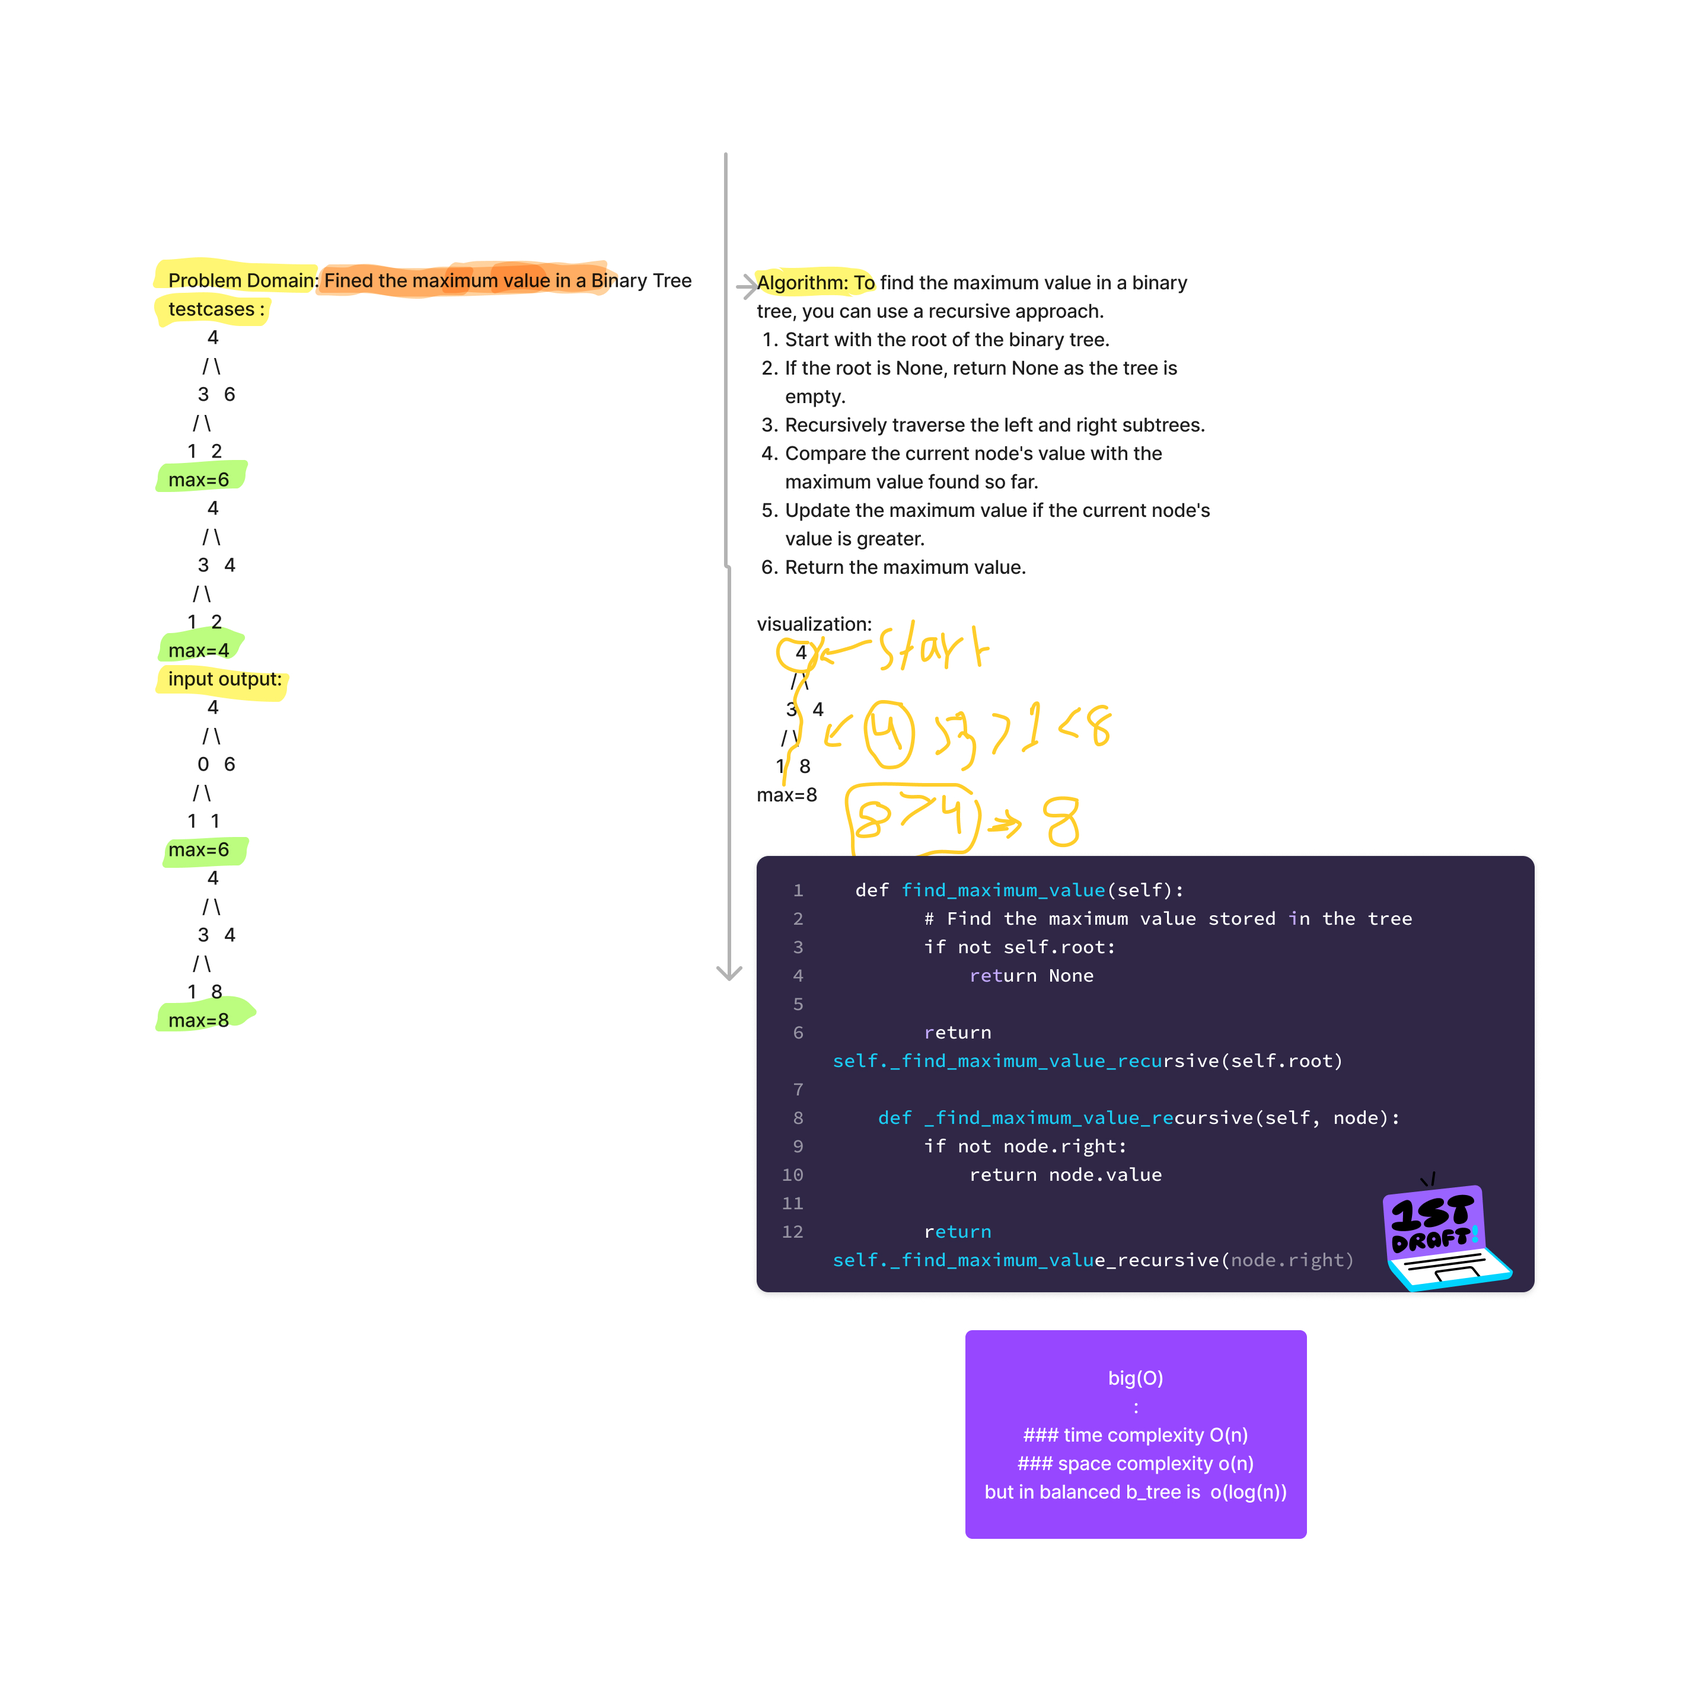
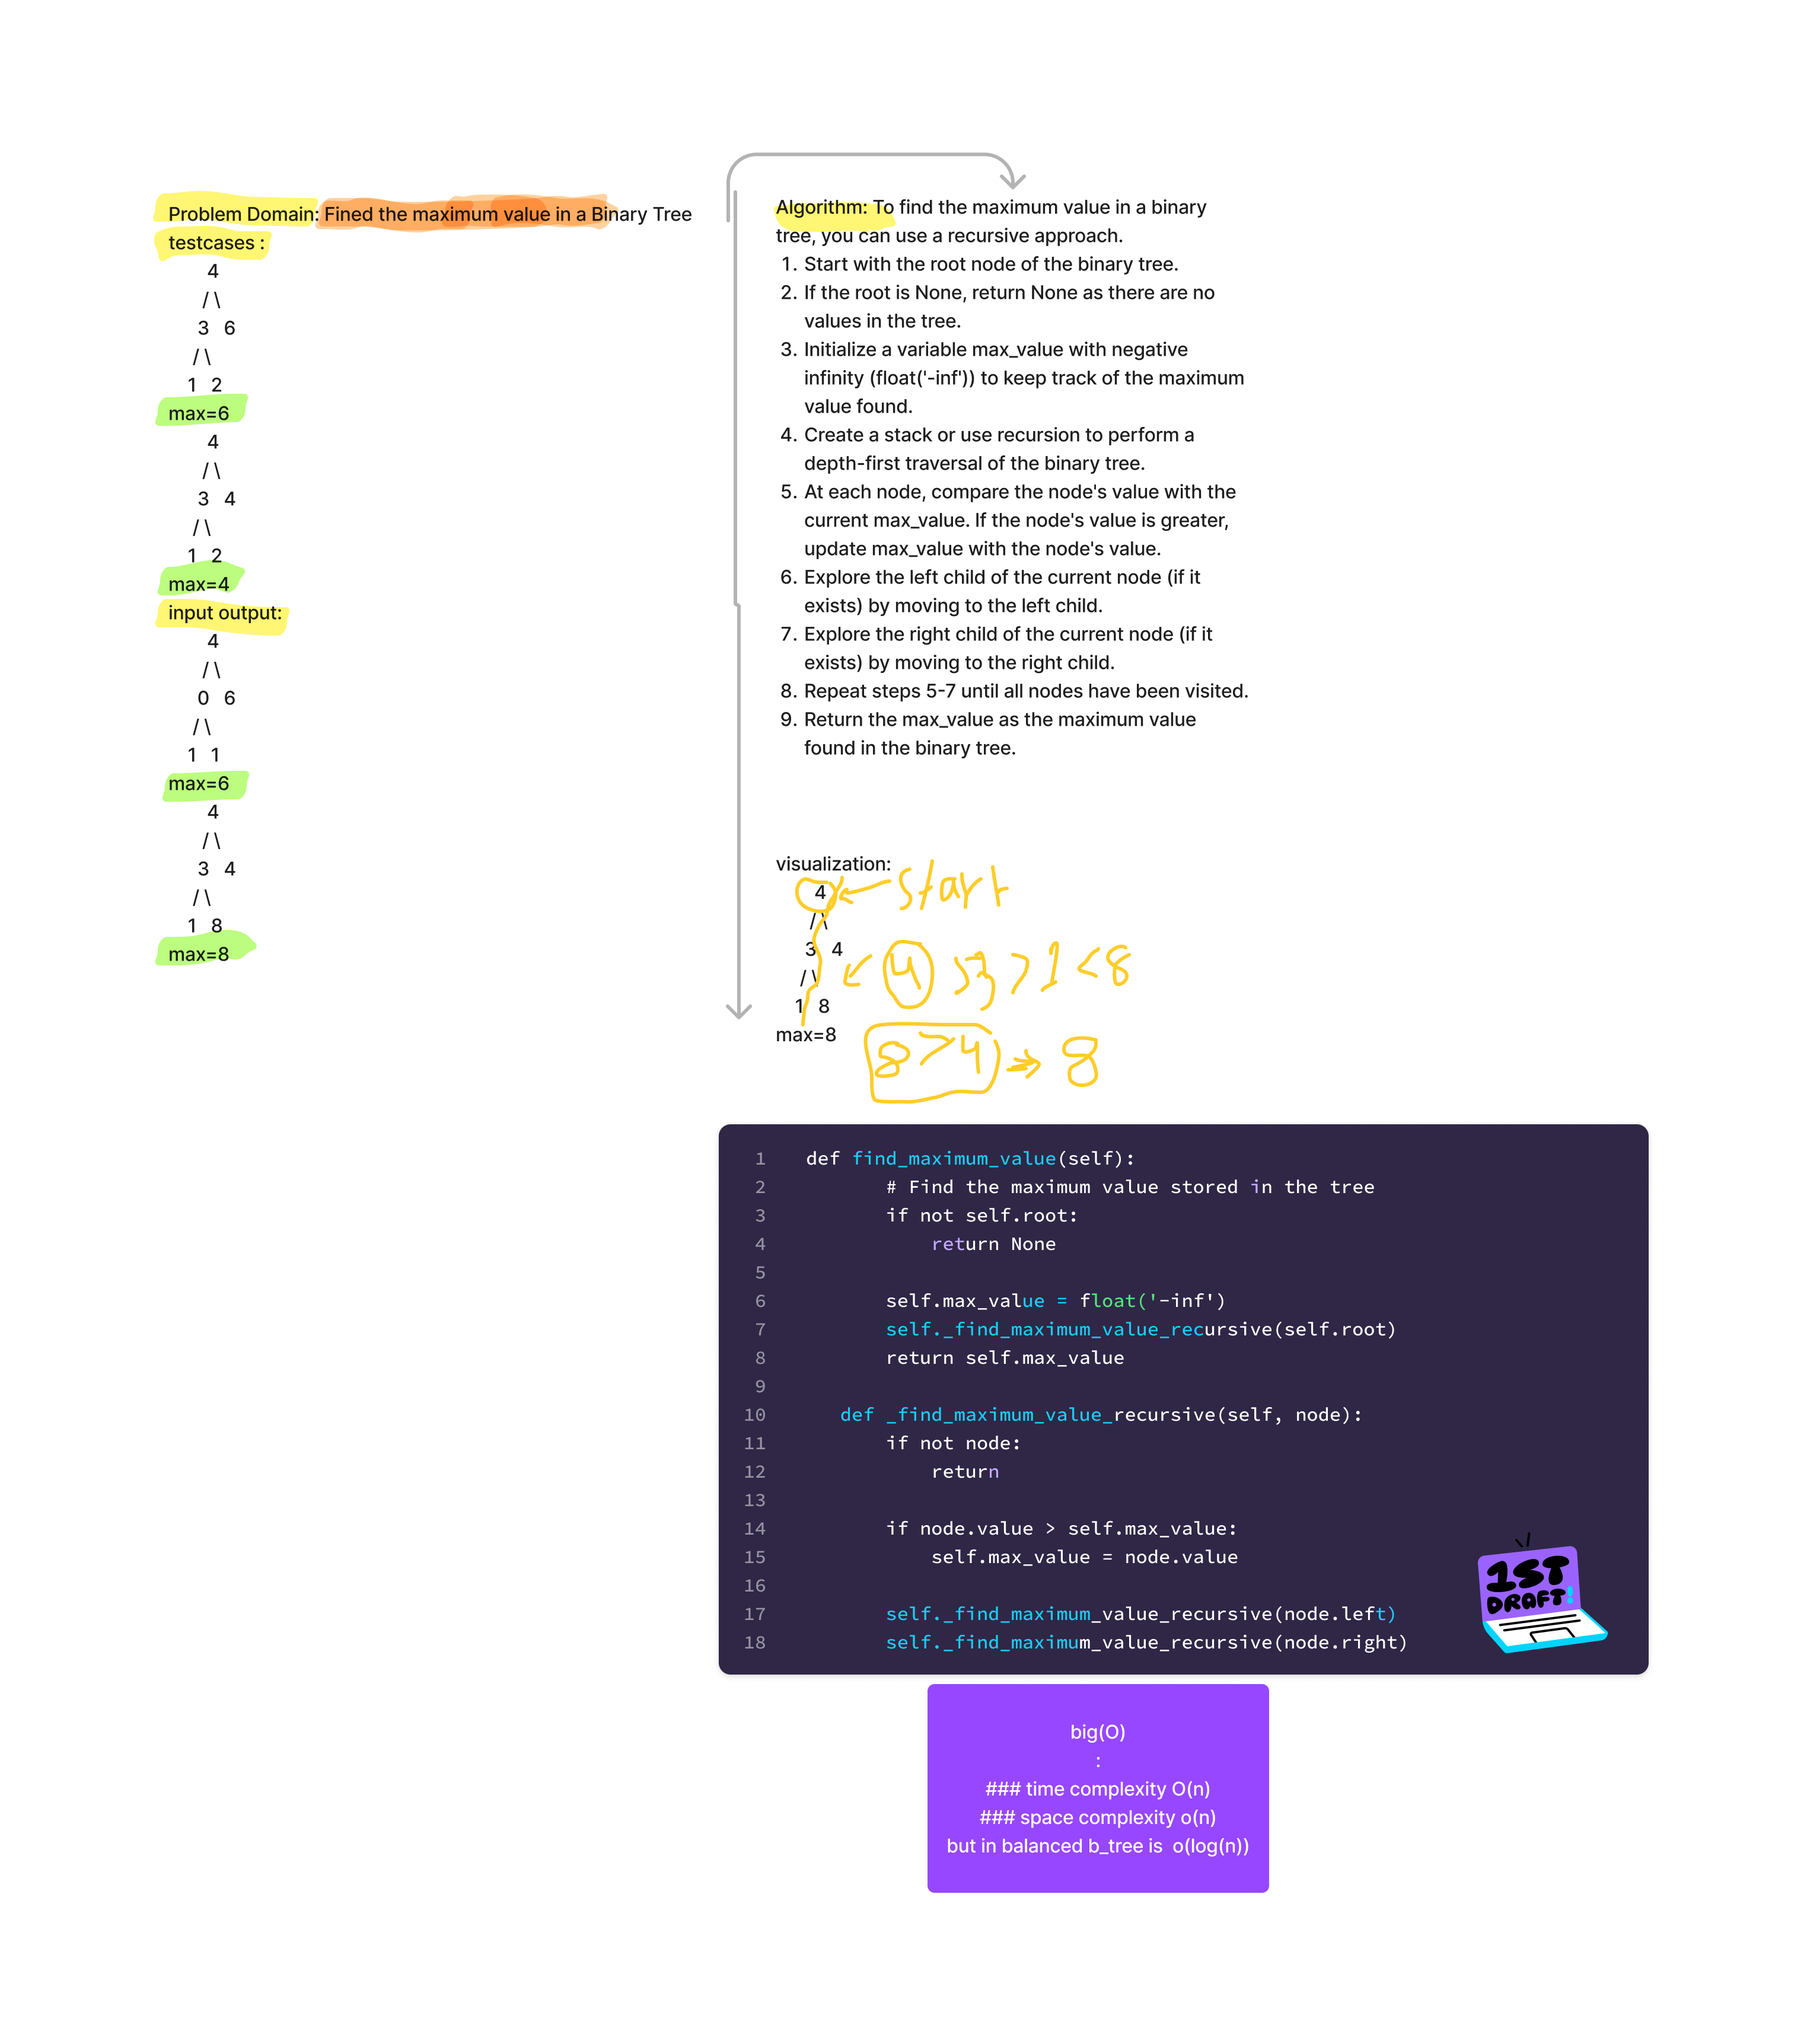
updating

diff --git a/treemax/tree.py b/treemax/tree.py
@@ -6,7 +6,7 @@ class Node:
         self.right = None
 
 class BinaryTree:
-    '''class to add node'''
+    '''class to treat with Tree'''
     def __init__(self): 
         self.root = None
 
@@ -82,15 +82,23 @@ class BinarySearchTree(BinaryTree):
         else:
             return self._contains_recursive(node.right, value)
 
+    
+
     def find_maximum_value(self):
         # Find the maximum value stored in the tree
         if not self.root:
             return None
 
-        return self._find_maximum_value_recursive(self.root)
+        self.max_value = float('-inf')
+        self._find_maximum_value_recursive(self.root)
+        return self.max_value
 
     def _find_maximum_value_recursive(self, node):
-        if not node.right:
-            return node.value
+        if not node:
+            return
 
-        return self._find_maximum_value_recursive(node.right)
+        if node.value > self.max_value:
+            self.max_value = node.value
+
+        self._find_maximum_value_recursive(node.left)
+        self._find_maximum_value_recursive(node.right)

diff --git a/treemax/tests/test_tree.py b/treemax/tests/test_tree.py
@@ -1,5 +1,5 @@
 import pytest
-from tree import Node, BinaryTree, BinarySearchTree
+from tree import *
 
 def test_preorder_traversal():
     # Create a binary tree
@@ -62,18 +62,23 @@ def test_add_and_contains():
     assert bst.contains(3) is True
     assert bst.contains(4) is False
 
+def test_find_maximum_value_empty_tree():
+        tree = BinarySearchTree()
+        assert tree.find_maximum_value() is None
+
 def test_find_maximum_value():
-    # Create a binary search tree
-    bst = BinarySearchTree()
-    bst.add(4)
-    bst.add(2)
-    bst.add(6)
-    bst.add(1)
-    bst.add(3)
+        bst = BinarySearchTree()
+        # Construct the binary search tree
+        bst.add(10)
+        bst.add(5)
+        bst.add(15)
+        bst.add(20)
+        bst.add(8)
+        bst.add(3)
+        # Test the find_maximum_value method
+        assert bst.find_maximum_value() == 20
 
-    # Call the method being tested
-    maximum_value = bst.find_maximum_value()
 
-    # Perform assertion to validate the result
-    assert maximum_value == 6
+
+
 
